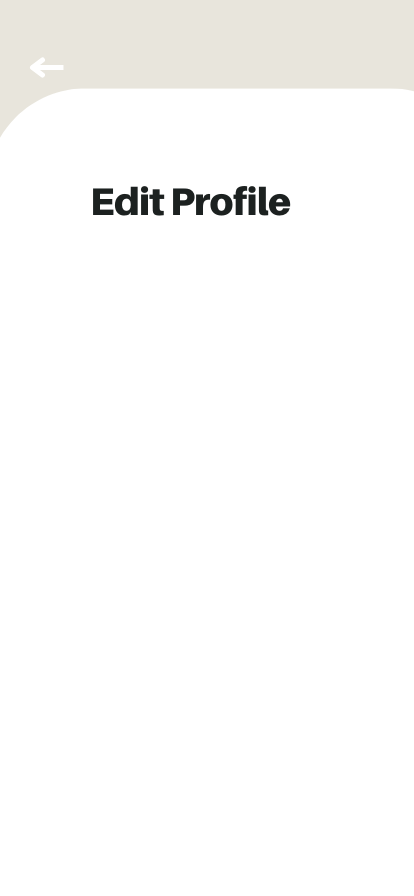
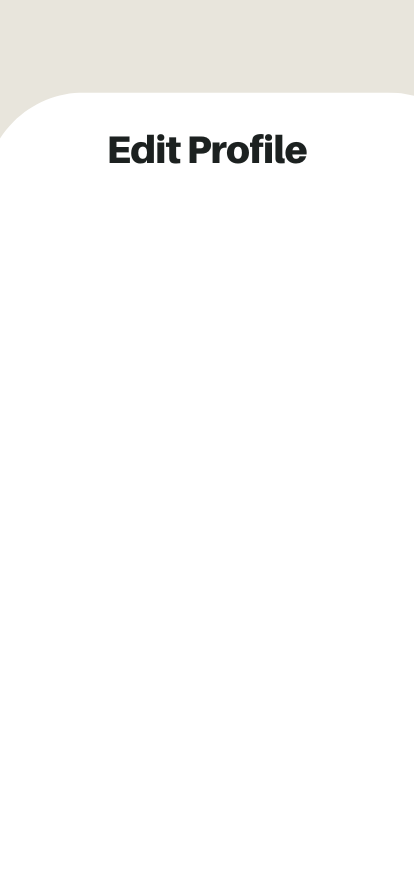
main

Changed region(s): [[0.058, 0.0625, 1.0, 0.25]]

diff --git a/app/Screen/EditProfileScree.js b/app/Screen/EditProfileScree.js
@@ -75,15 +75,19 @@ const UpdateProfileScreen = ({ navigation }) => {
 
   return (
     <ImageBackground 
-     style={styles.container}
+     style={styles.imageBackground}
      source={require('../assets/edit-profile.png')}>
-      <AppText  editable={false} >your email is:{email}</AppText>
+
+    
+      <View style={styles.apptext} > 
+
+      <AppText style={styles.text} editable={false} >Your Email  : {email}</AppText> 
       {/* תיבת טקסט לשם משתמש */}
-      <Text style={styles.label}>Name</Text>
-      <AppTextInput
-        value={name}
-        onChangeText={text => setName(text)}
-      />
+
+      <Text style={styles.text} >Name</Text>
+
+       <AppTextInput style={styles.textInput} value={name} onChangeText={text => setName(text)} />
+    
 
       {/* רכיב להעלאת תמונות */}
       <ImageInputList 
@@ -91,26 +95,48 @@ const UpdateProfileScreen = ({ navigation }) => {
         /> 
 
       {/* כפתור לעדכון הפרופיל */}
-      <AppButton title="Update Profile" onPress={updateUserProfile } />
+      <AppButton style={styles.appbutton} title="Update Profile" onPress={updateUserProfile } />
+      </View>
 
     </ImageBackground>
   );
 };
 
 const styles = StyleSheet.create({
-  container: {
+  text: {
+    fontSize: 20,
+    fontWeight: 'bold',
+    marginBottom: 40,
+    paddingBottom: 10,
+    
+    
+  },
+  app: {
+    width: '70%',
+    marginLeft: 75,
+
+  },
+  appbutton: {
+    width: '100%',
+    justifyContent: 'center',
+    alignItems: 'center',
+  },
+  apptext: {
+    marginLeft: 90,
+    width: '65%',
+
+  },
+  imageBackground: {
     flex: 1,
     alignContent: 'center',
     justifyContent: 'center',
   },
-  label: {
-    fontSize: 18,
-    marginBottom: 10,
-  },
-  image: {
-    width: '100%',
-    height: 200,
-    borderRadius: 100,
+
+  textInput: {
+    fontSize: 20,
+    fontWeight: 'bold',
+    width: '70%',
+    
   },
 });
 
